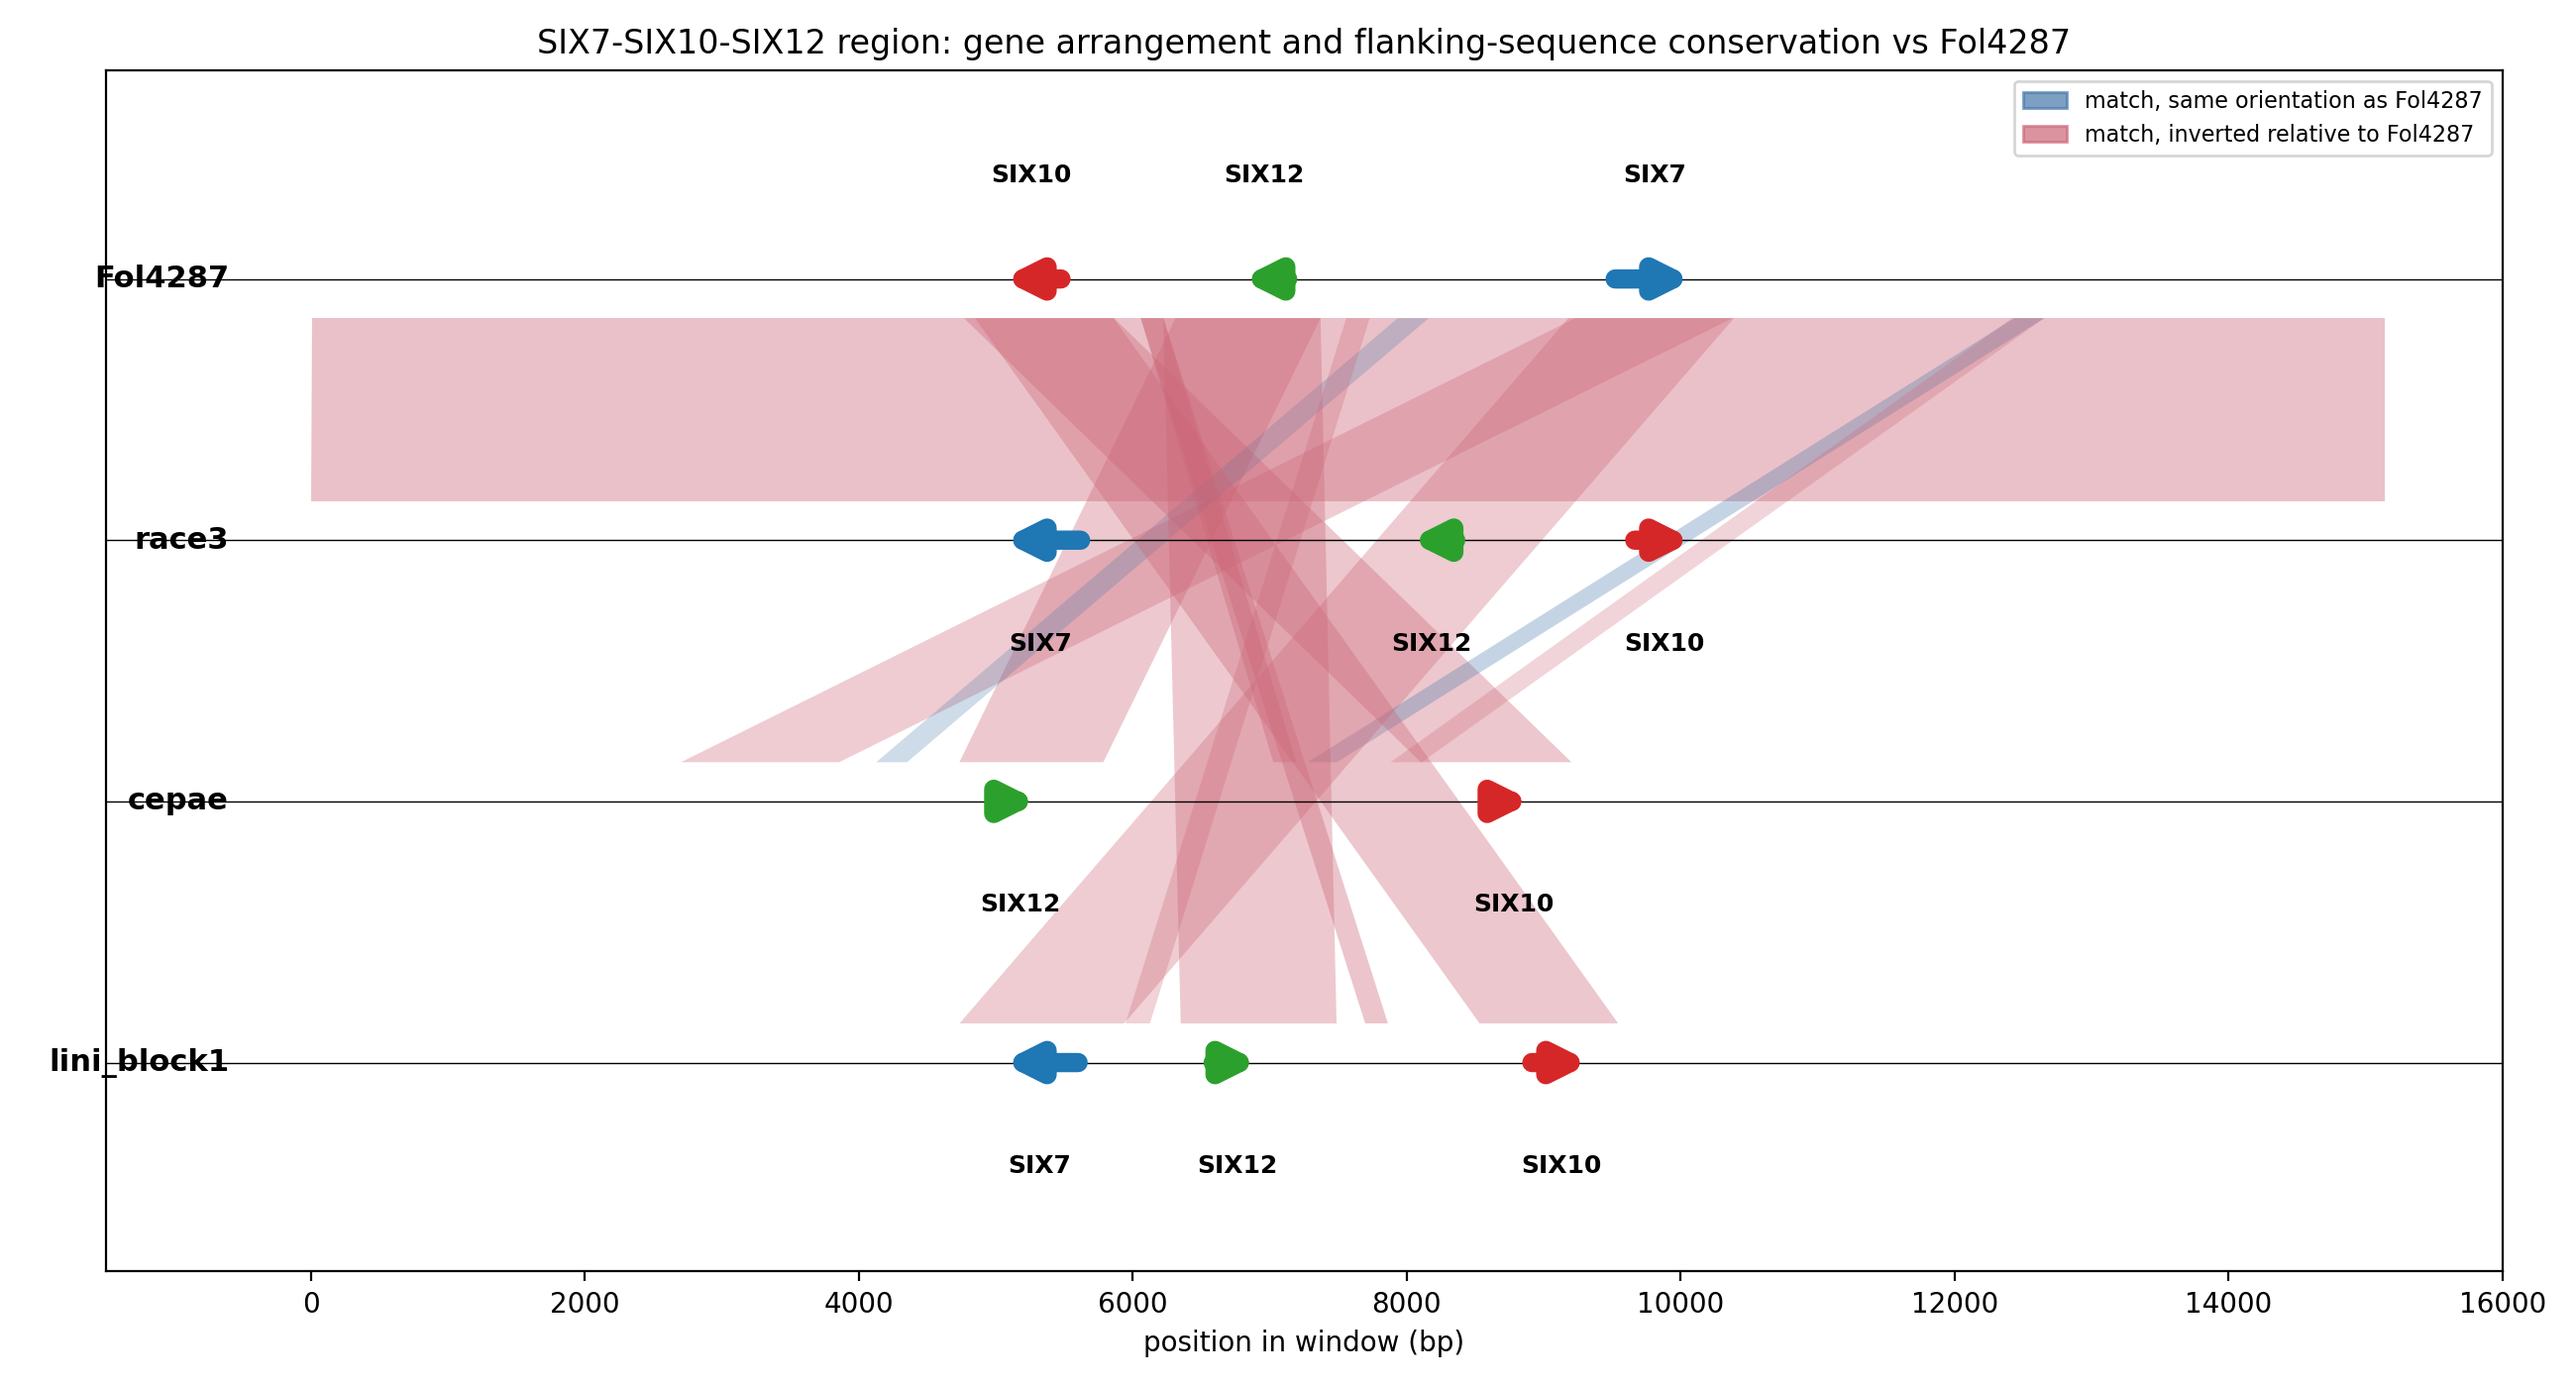
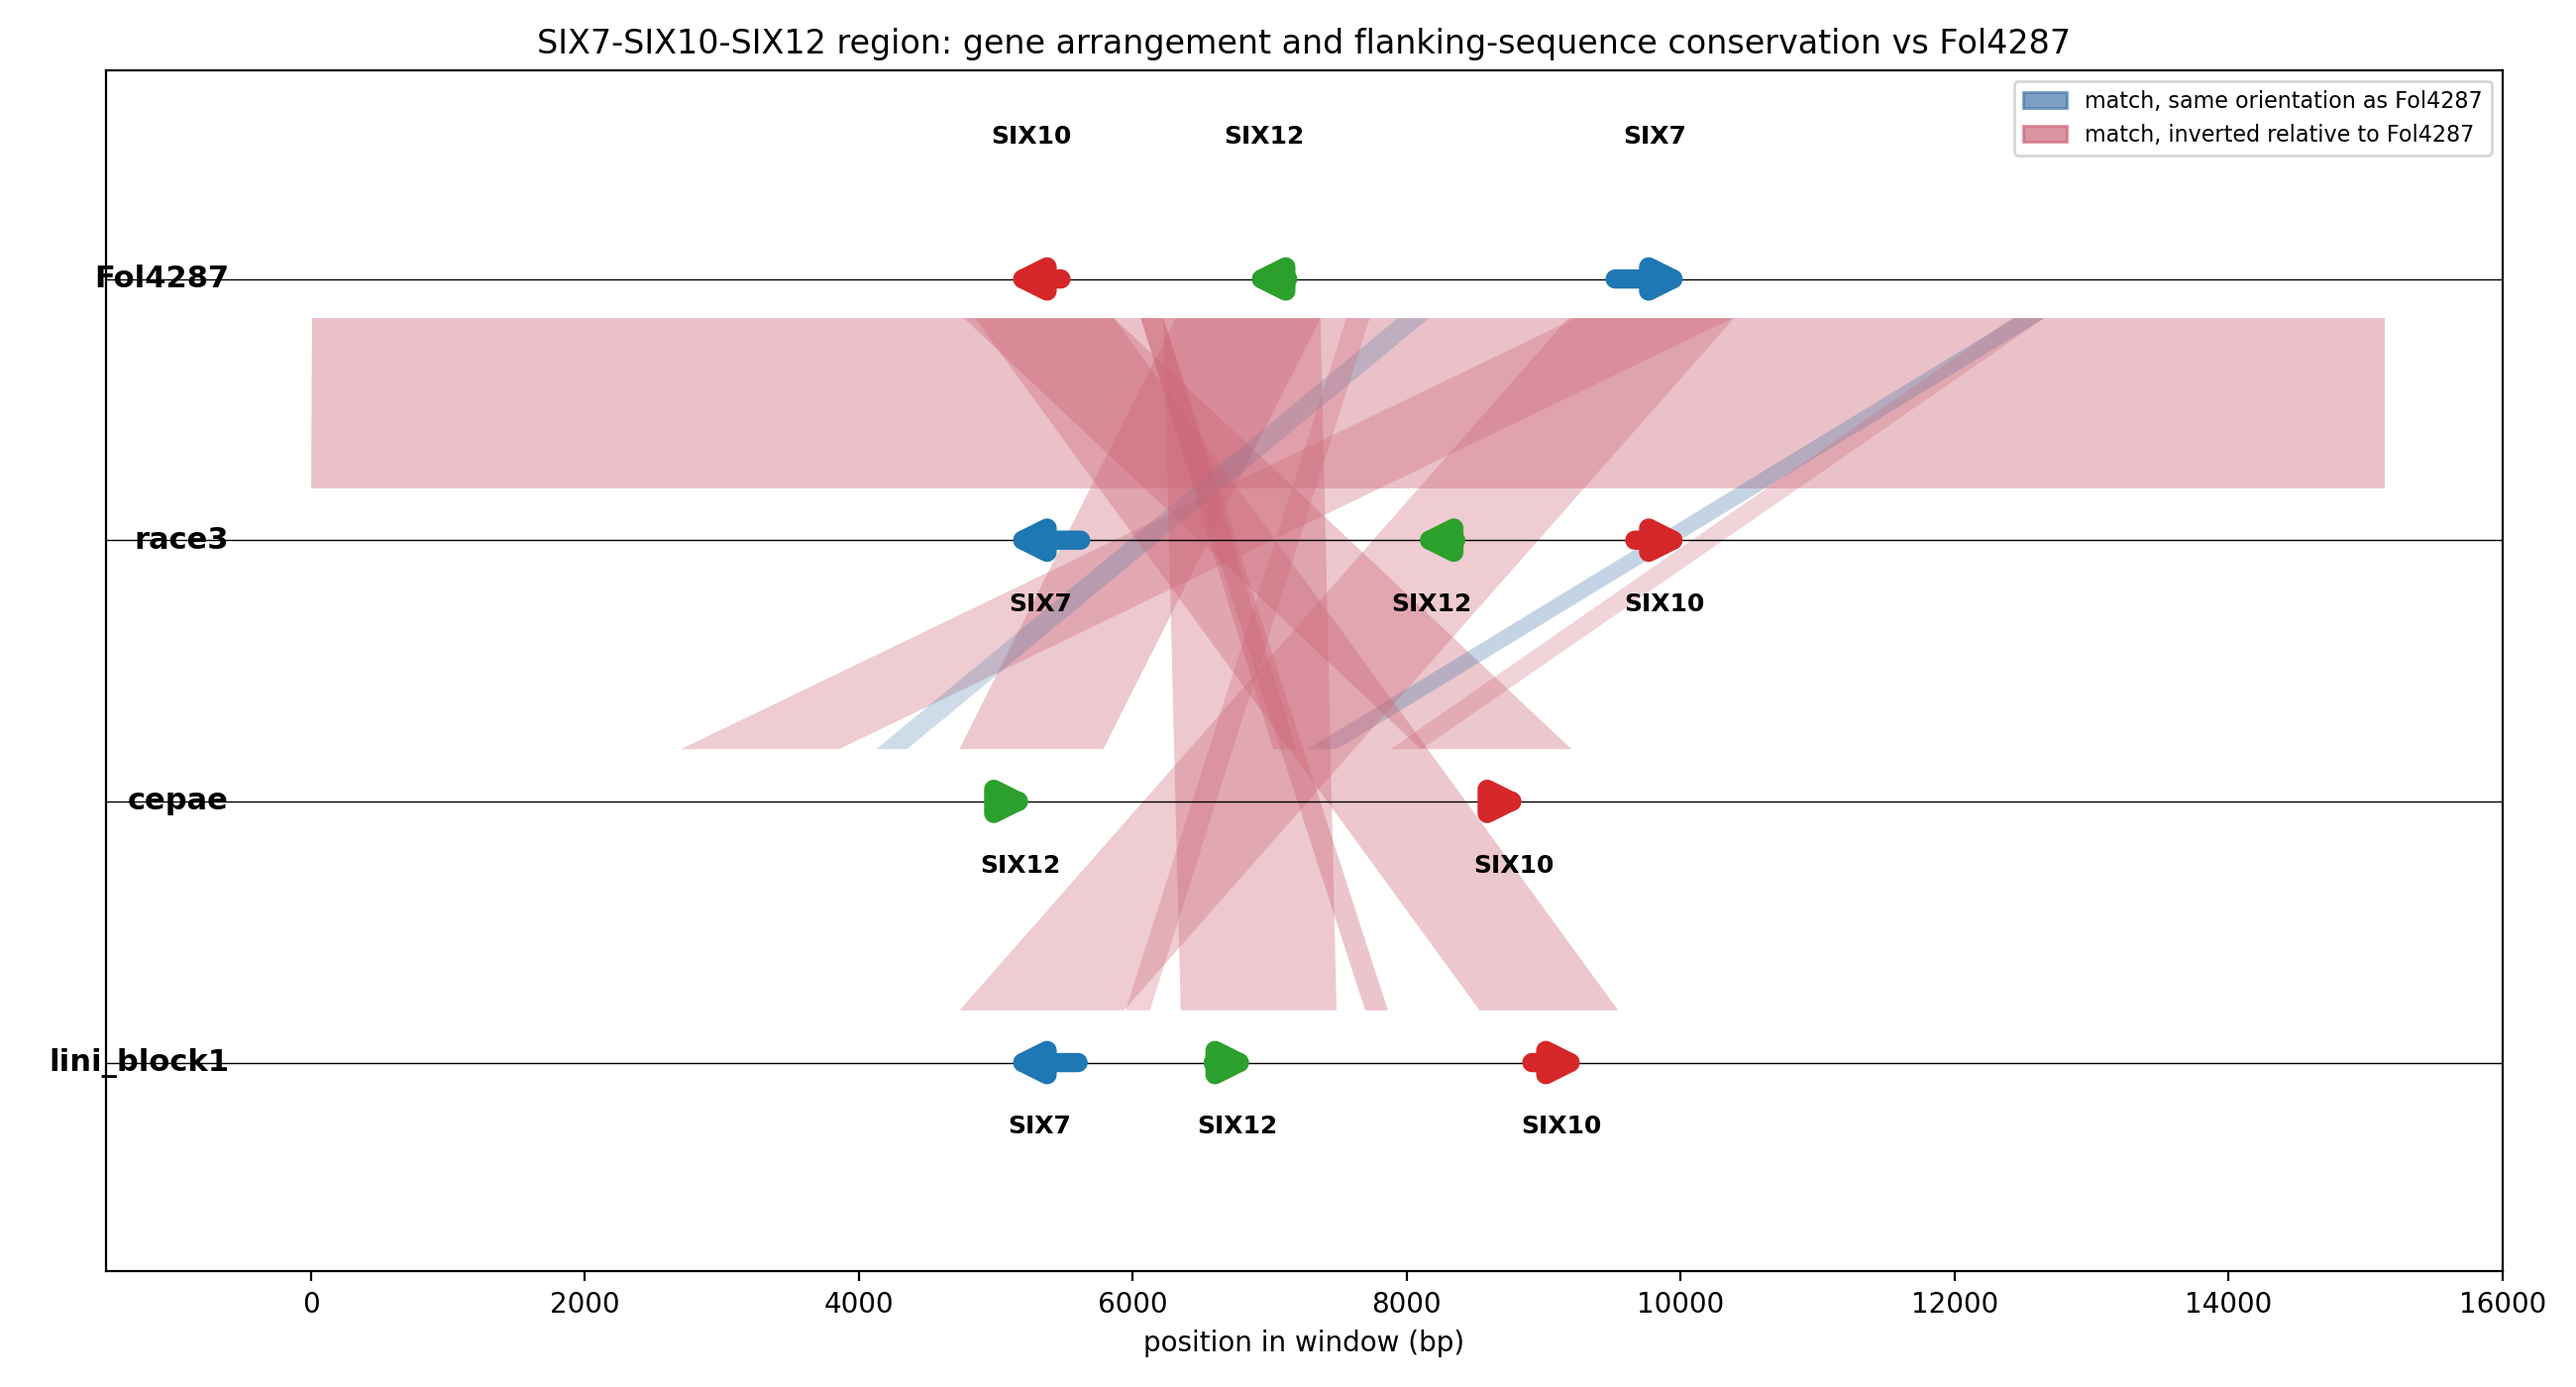
add: core phylogeny documentation and SIX12 analysis

diff --git a/results/six_phylogenies/alignments/protein/sequence_divergence_analysis.py b/results/six_phylogenies/alignments/protein/sequence_divergence_analysis.py
@@ -1,0 +1,132 @@
+from Bio import AlignIO
+from itertools import combinations
+import pandas as pd
+import os
+BASE = "/home/arafat/Foxy_SIX_Evolution/results/six_phylogenies/alignments/protein"
+files = {
+    "SIX1": f"{BASE}/SIX1.aln.fasta",
+    "SIX3": f"{BASE}/SIX3.aln.fasta",
+    "SIX5": f"{BASE}/SIX5.aln.fasta",
+    "SIX7": f"{BASE}/SIX7.aln.fasta",
+    "SIX10": f"{BASE}/SIX10.aln.fasta",
+    "SIX12": f"{BASE}/six12_aligned.fasta"
+}
+
+
+# Put your aligned FASTA files here
+files = {
+    "SIX1": "SIX1.aln.fasta",
+    "SIX3": "SIX3.aln.fasta",
+    "SIX5": "SIX5.aln.fasta",
+    "SIX7": "SIX7.aln.fasta",
+    "SIX10": "SIX10.aln.fasta",
+    "SIX12": "six12_aligned.fasta"
+}
+
+
+def calculate_identity(seq1, seq2):
+    """
+    Calculate pairwise amino acid identity
+    ignoring gaps
+    """
+    matches = 0
+    compared = 0
+
+    for a, b in zip(seq1, seq2):
+
+        if a == "-" or b == "-":
+            continue
+
+        compared += 1
+
+        if a == b:
+            matches += 1
+
+    if compared == 0:
+        return 0
+
+    return (matches / compared) * 100
+
+
+
+results = []
+
+
+for gene, filename in files.items():
+
+    print("Processing:", gene)
+
+    alignment = AlignIO.read(filename, "fasta")
+
+    sequences = [str(record.seq) for record in alignment]
+
+    n_sequences = len(sequences)
+
+    alignment_length = alignment.get_alignment_length()
+
+
+    # Count conserved and variable sites
+    conserved = 0
+    variable = 0
+
+
+    for column in range(alignment_length):
+
+        site = [
+            seq[column]
+            for seq in sequences
+            if seq[column] != "-"
+        ]
+
+        if len(set(site)) <= 1:
+            conserved += 1
+        else:
+            variable += 1
+
+
+
+    # Pairwise identity
+    identities = []
+
+    for s1, s2 in combinations(sequences, 2):
+
+        identity = calculate_identity(s1, s2)
+
+        identities.append(identity)
+
+
+
+    mean_identity = sum(identities) / len(identities)
+
+    divergence = 100 - mean_identity
+
+
+
+    results.append({
+
+        "Gene": gene,
+        "Number_of_sequences": n_sequences,
+        "Alignment_length_aa": alignment_length,
+        "Conserved_sites": conserved,
+        "Variable_sites": variable,
+        "Mean_pairwise_identity_%": round(mean_identity,2),
+        "Mean_divergence_%": round(divergence,2)
+
+    })
+
+
+
+df = pd.DataFrame(results)
+
+
+print("\nSequence Divergence Summary\n")
+
+print(df)
+
+
+df.to_csv(
+    "SIX_sequence_divergence_summary.csv",
+    index=False
+)
+
+print("\nSaved: SIX_sequence_divergence_summary.csv")

diff --git a/results/synteny/plot_six_region.py b/results/synteny/plot_six_region.py
@@ -31,7 +31,7 @@ for row in ["race3", "cepae", "lini_block1"]:
         s_left, s_right = (se, ss) if reverse else (ss, se)
         alpha = min(0.15 + (pident - 75) / 100, 0.85)
         color = "#4477aa" if not reverse else "#cc6677"  # blue = same strand, red-gray = inverted vs Fol4287
-        verts = [(qs, y_bot + 0.15), (qe, y_bot + 0.15), (s_right, y_top - 0.15), (s_left, y_top - 0.15), (qs, y_bot + 0.15)]
+        verts = [(qs, y_bot + 0.20), (qe, y_bot + 0.20), (s_right, y_top - 0.15), (s_left, y_top - 0.15), (qs, y_bot + 0.20)]
         ax.add_patch(mpatches.Polygon(verts, closed=True, facecolor=color, alpha=alpha, edgecolor="none"))
 
 for name, glist in genes.items():
@@ -41,7 +41,7 @@ for name, glist in genes.items():
         x0, x1 = (start, end) if strand == "+" else (end, start)
         ax.annotate("", xy=(x1, y), xytext=(x0, y),
                     arrowprops=dict(arrowstyle="-|>", color=colors[gname], lw=7, mutation_scale=22))
-        offset = 0.35 if name == "Fol4287" else -0.35
+        offset = 0.5 if name == "Fol4287" else -0.2
         va = "bottom" if name == "Fol4287" else "top"
         ax.text((start+end)/2, y + offset, gname, ha="center", va=va, fontsize=9, weight="bold")
     ax.text(-600, y, name, ha="right", va="center", fontsize=11, weight="bold")

diff --git a/docs/methods/02_reference_gene_preparation.md b/docs/methods/02_reference_gene_preparation.md
@@ -1,0 +1,69 @@
+## Reference SIX Gene Sequences
+
+Reference sequences for the six SIX effector genes examined in this
+study — SIX1, SIX3, SIX5, SIX7, SIX10, and SIX12 — were retrieved from
+NCBI GenBank using the accessions MK906592.1, MK906598.1, MK906607.1,
+GQ268954.1, MK906667.1, and MW160867.1 respectively. For each gene, both
+the nucleotide FASTA sequence and the full GenBank flatfile record were
+downloaded via NCBI's Entrez utilities (`efetch`), rather than the
+FASTA sequence alone, because the flatfile's CDS feature annotation is
+required to establish each gene's coding boundaries, reading frame, and
+intron/exon structure before the sequence can be used as a reliable
+BLAST query or reference length for downstream classification.
+
+Each reference record's CDS annotation was inspected individually prior
+to use, rather than assumed uniform across all six genes, since GenBank
+records can vary in completeness and in whether they represent spliced
+mRNA or unspliced genomic sequence. This inspection identified three
+spliced reference genes, one reference gene with an incomplete record,
+and two straightforward unspliced, complete records:
+
+**Spliced (multi-exon) reference genes.** SIX5 (MK906607.1, four exons),
+SIX10 (MK906667.1, two exons), and SIX12 (MW160867.1, two exons, with a
+short ~48 bp intron) are each annotated with multi-segment `join()` CDS
+coordinates, confirming all three are intron-containing genes represented
+as spliced mRNA. This distinction proved essential in practice: candidate
+genomic loci for these genes were in some cases detected by BLAST as
+multiple separate high-scoring segment pairs (one per exon) and in other
+cases, where the intron was short, as a single alignment spanning the
+intron internally. In both cases the intron sequence must be identified
+and excluded before translation. An initial extraction method that
+treated each locus as a single contiguous genomic span was found to
+introduce frameshift errors at intron boundaries, producing translations
+that falsely resembled pseudogenization, for both multi-segment loci
+(SIX5, SIX10) and, less obviously, for single-segment loci whose
+alignment happened to bridge a short intron (SIX12). All affected loci
+across all three genes were identified — the latter case specifically by
+the presence of identical, gene-specific translation statistics across
+otherwise-unrelated genomes — and corrected using exonerate
+(protein2genome model) to identify true exon boundaries prior to
+translation. Full detail is provided in
+`docs/decisions/correction_six10_six5_spliced_gene_reextraction.md` and
+`docs/decisions/correction_six12_spliced_gene_reextraction.md`.
+
+**Unspliced reference gene with an incomplete record.** SIX1
+(MK906592.1) is annotated with a partial CDS (`<1..845`,
+`codon_start=3`), indicating that the deposited record is missing an
+unknown number of residues from the true N-terminus of the protein,
+and that translation of this particular record must begin at its third
+nucleotide position to remain in the correct reading frame. The
+reference protein sequence used throughout this study was confirmed to
+match NCBI's own precomputed translation of this record exactly,
+confirming the frame offset had already been correctly applied at
+extraction. This incompleteness is a property of the deposited record
+itself, not a correctable error, and is treated as a limitation
+(`docs/decisions/six1_reference_completeness_check.md`): loci classified
+as truncated relative to this particular reference should be understood
+as truncated relative to an already N-terminally incomplete sequence, not
+the full-length native protein.
+
+**Unspliced, complete reference genes.** SIX3 (MK906598.1, `CDS 80..571`)
+and SIX7 (GQ268954.1, `CDS 1..663`) are each annotated as single, complete
+coding sequences with no splicing and no frame-offset complication.
+
+For each reference gene, the corresponding protein sequence was
+extracted for use as the tblastn query, using NCBI's own precomputed
+translation from the GenBank record (accounting for `codon_start` and
+completeness flags as above) rather than translating the raw nucleotide
+sequence independently, to avoid introducing a frame or boundary error
+at the extraction step itself.

diff --git a/docs/decisions/core_genome_phylogeny.md b/docs/decisions/core_genome_phylogeny.md
@@ -1,0 +1,56 @@
+# Core-genome phylogeny: methods and decisions
+
+## Problem
+BUSCO (hypocreales_odb12.2, `--miniprot`) took about 1 hour per genome and
+crashed twice when run in parallel on an 8 GB RAM / 8 core machine. Full
+BUSCO on all 27 genomes was not feasible in the time available. Only 6
+genomes had finished BUSCO runs:
+GCA_003315725.1, GCA_003615085.1, GCA_013085055.1, GCA_049306905.1,
+GCA_053754965.2, GCA_055944325.1.
+
+## Decision
+Reuse the single-copy BUSCO protein set from the 6 finished genomes as
+query proteins, and map them directly to all 27 genome assemblies with
+`miniprot`, bypassing BUSCO's full pipeline for the remaining 21 genomes.
+This was chosen over:
+- Installing `compleasm` (dependency conflict with six_project's
+  Python 3.13 environment; also may not support odb12).
+- A Mash/fastANI distance tree (rejected as the primary tree since it
+  gives no gene alignment, no substitution model, and no branch support;
+  kept only as a fallback that was not ultimately needed).
+
+## Pipeline
+1. `01_make_queries.py` — read the single-copy BUSCO protein sets from
+   the 6 finished genomes, take the genes shared by all 6, and write one
+   reference protein per gene (from GCA_003615085.1) to
+   `results/core/queries.faa`.
+2. `02_run_miniprot.sh` — run `miniprot -t 8 --gff -N 0` for each of the
+   27 genome FASTAs in `data/genomes/raw/flat/` against `queries.faa`,
+   one genome at a time (parallel runs previously crashed the machine).
+   Writes to a `.gff.tmp` then renames to `.gff` so an interrupted run is
+   retried rather than treated as complete.
+3. `03_extract.py` — parse each GFF, keep the best-scoring hit per query
+   gene, require query coverage >= 0.7, extract and translate the CDS,
+   and keep only genes present in at least 90% of the 27 genomes.
+   Produced 3,911 shared genes.
+4. `04_align_tree.sh` — align each gene with MAFFT (`--auto`), trim with
+   trimAl (`-automated1`), concatenate per genome
+   (`results/core/concat.faa`, ~2.3M columns), and build the tree.
+
+## Deviations from the original plan (and why)
+- The concatenated alignment (~2.3M columns) was subsampled to ~250k
+  columns before tree inference, and `iqtree3` was run with `--fast` and
+  `-alrt 1000` (SH-aLRT) rather than full ModelFinder + 1000 UFBoot, to
+  fit the time constraint. Model used: LG+I+G.
+- Final tree: `results/core/core_tree_final.treefile`
+  (LogLikelihood = -1,211,567.3, tree length = 0.252).
+- This is a single-model, subsampled, SH-aLRT-supported tree rather than
+  a fully partitioned, full-length, UFBoot-supported tree. This is a
+  methodological limitation to state explicitly in the report.
+
+## Known caveats
+- Query proteins come from one genome (GCA_003615085.1), so only genes
+  that genome carries in single copy could be used as queries.
+- Coverage/identity filters catch the worst frameshift or fragment
+  artifacts but were not manually reviewed hit-by-hit; treat as
+  automated results, not manually curated ones.
